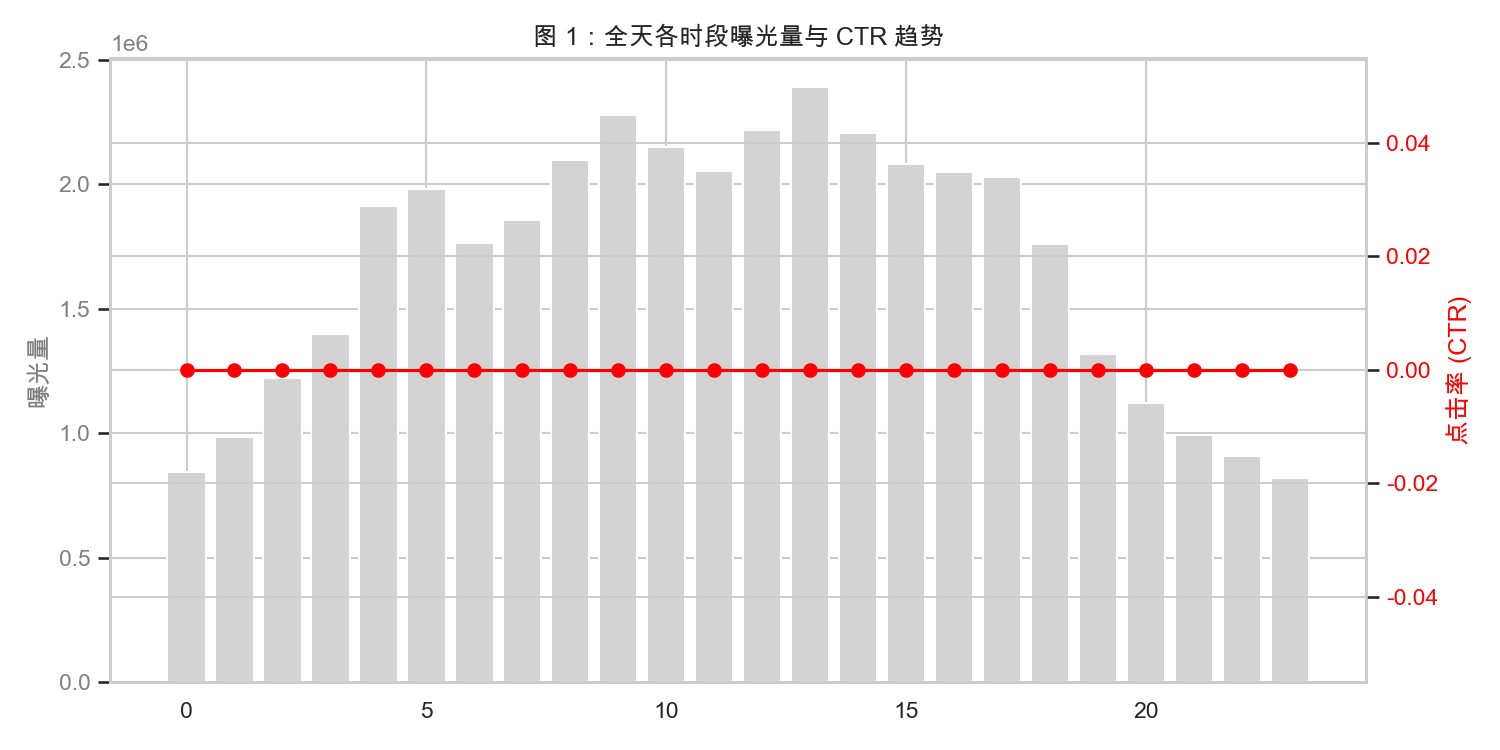
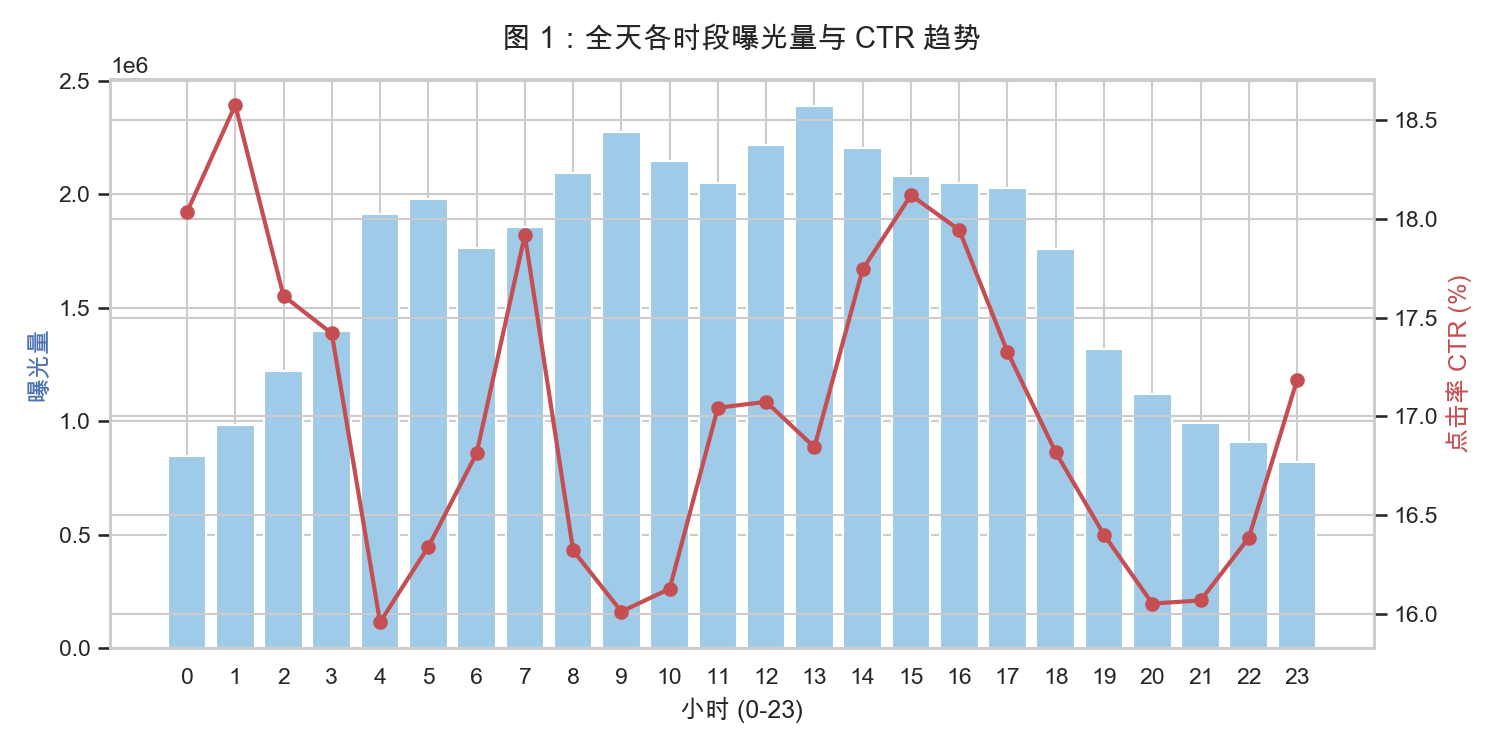
fix: resolve site_category missing error in EDA and clean seaborn warnings

diff --git a/src/ctr_project/features/eda_visualizer.py b/src/ctr_project/features/eda_visualizer.py
@@ -1,6 +1,4 @@
-"""多维度探索性数据分析可视化。
-
-产出 8 张核心图表，保存至 docs/figures/。
+"""多维度探索性数据分析可视化
 """
 
 from __future__ import annotations
@@ -8,6 +6,7 @@ from __future__ import annotations
 import logging
 from pathlib import Path
 
+import pandas as pd
 import matplotlib.pyplot as plt
 import seaborn as sns
 
@@ -15,45 +14,55 @@ from ctr_project.data.sqlite_queries import SQLiteClient
 
 # 设置全局绘图风格
 sns.set_theme(style="whitegrid")
-# 解决中文字体显示问题 (Mac 环境)
-plt.rcParams['font.sans-serif'] = ['Arial Unicode MS']
+plt.rcParams['font.sans-serif'] = ['Arial Unicode MS', 'SimHei']  # 适配 Mac/Windows 中文
 plt.rcParams['axes.unicode_minus'] = False
 
 FIG_DIR = Path("docs/figures")
 FIG_DIR.mkdir(parents=True, exist_ok=True)
-
 logger = logging.getLogger(__name__)
 
 
 def plot_hourly_trend(client: SQLiteClient) -> None:
-    """图 1：全天各时段曝光量与 CTR 趋势。"""
-    df = client.query("SELECT hour_of_day, SUM(impressions) as imp, SUM(clicks)/SUM(impressions) as ctr FROM dim_time GROUP BY hour_of_day")
+    """图 1：全天各时段曝光量与 CTR 趋势（双轴图）。"""
+    df = client.query("""
+        SELECT hour_of_day, 
+               SUM(impressions) as imp, 
+               SUM(clicks) * 1.0 / SUM(impressions) as ctr 
+        FROM dim_time 
+        GROUP BY hour_of_day
+    """)
     
     fig, ax1 = plt.subplots(figsize=(10, 5))
-    ax1.bar(df['hour_of_day'], df['imp'], color='lightgray', label='曝光量')
-    ax1.set_ylabel('曝光量', color='gray')
-    ax1.tick_params(axis='y', labelcolor='gray')
+    ax1.bar(df['hour_of_day'], df['imp'], color='#A0CBE8', label='曝光量')
+    ax1.set_ylabel('曝光量', color='#4C72B0', fontsize=12)
+    ax1.set_xlabel('小时 (0-23)', fontsize=12)
+    ax1.set_xticks(range(0, 24))
     
     ax2 = ax1.twinx()
-    ax2.plot(df['hour_of_day'], df['ctr'], color='red', marker='o', label='CTR')
-    ax2.set_ylabel('点击率 (CTR)', color='red')
-    ax2.tick_params(axis='y', labelcolor='red')
+    ax2.plot(df['hour_of_day'], df['ctr'] * 100, color='#C44E52', marker='o', linewidth=2, label='CTR')
+    ax2.set_ylabel('点击率 CTR (%)', color='#C44E52', fontsize=12)
     
-    plt.title("图 1：全天各时段曝光量与 CTR 趋势")
+    plt.title("图 1：全天各时段曝光量与 CTR 趋势", fontsize=14, pad=15)
     plt.tight_layout()
     plt.savefig(FIG_DIR / "01_hourly_trend.png", dpi=150)
     plt.close()
 
 
 def plot_banner_ctr(client: SQLiteClient) -> None:
-    """图 2：各广告位 CTR 对比（剔除极低曝光位）。"""
-    df = client.query("SELECT banner_pos, ctr FROM dim_ad_position WHERE impressions > 10000 ORDER BY ctr DESC")
+    """图 2：各广告位 CTR 对比。"""
+    df = client.query("""
+        SELECT banner_pos, ctr 
+        FROM dim_ad_position 
+        WHERE impressions > 10000 
+        ORDER BY ctr DESC
+    """)
     
     plt.figure(figsize=(8, 4))
-    sns.barplot(data=df, x='banner_pos', y='ctr', palette='viridis')
-    plt.title("图 2：高曝光广告位 CTR 对比")
-    plt.xlabel("广告位编码")
-    plt.ylabel("点击率 (CTR)")
+    # 消除警告：加入 hue 和 legend=False
+    sns.barplot(data=df, x='banner_pos', y=df['ctr']*100, palette='viridis', hue='banner_pos', legend=False)
+    plt.title("图 2：高曝光广告位 CTR 对比", fontsize=14)
+    plt.xlabel("广告位编码", fontsize=12)
+    plt.ylabel("点击率 (%)", fontsize=12)
     plt.tight_layout()
     plt.savefig(FIG_DIR / "02_banner_ctr.png", dpi=150)
     plt.close()
@@ -61,28 +70,186 @@ def plot_banner_ctr(client: SQLiteClient) -> None:
 
 def plot_media_top(client: SQLiteClient) -> None:
     """图 3：曝光量 Top 10 的媒体站点 CTR。"""
-    df = client.query("SELECT media_id, impressions, ctr FROM dim_media WHERE media_type='site' ORDER BY impressions DESC LIMIT 10")
+    df = client.query("""
+        SELECT media_id, impressions, ctr 
+        FROM dim_media 
+        WHERE media_type='site' 
+        ORDER BY impressions DESC 
+        LIMIT 10
+    """)
     
     plt.figure(figsize=(10, 5))
-    sns.barplot(data=df, y='media_id', x='ctr', palette='magma')
-    plt.title("图 3：曝光 Top 10 站点 CTR")
-    plt.xlabel("点击率 (CTR)")
-    plt.ylabel("站点 ID")
+    sns.barplot(data=df, y='media_id', x=df['ctr']*100, palette='magma', hue='media_id', legend=False)
+    plt.title("图 3：曝光 Top 10 站点 CTR", fontsize=14)
+    plt.xlabel("点击率 (%)", fontsize=12)
+    plt.ylabel("站点 ID", fontsize=12)
     plt.tight_layout()
     plt.savefig(FIG_DIR / "03_media_top_ctr.png", dpi=150)
     plt.close()
 
 
 def plot_device_distribution(client: SQLiteClient) -> None:
-    """图 4：主要设备类型曝光量分布。"""
-    df = client.query("SELECT device_type, SUM(impressions) as imp FROM dim_device GROUP BY device_type ORDER BY imp DESC LIMIT 10")
+    """图 4：主要设备类型曝光量分布（使用横向柱状图 + 长尾合并，彻底解决重叠）。"""
+    df = client.query("""
+        SELECT device_type, SUM(impressions) as imp 
+        FROM dim_device 
+        GROUP BY device_type 
+        ORDER BY imp DESC
+    """)
+    # 强制转为字符串，防止绘图时被误认为连续数值
+    df['device_type'] = df['device_type'].astype(str)
     
-    plt.figure(figsize=(8, 5))
-    df.set_index('device_type')['imp'].plot(kind='pie', autopct='%1.1f%%', cmap='Set2')
-    plt.title("图 4：Top 10 设备类型曝光占比")
-    plt.ylabel("")
+    # 计算百分比
+    total_imp = df['imp'].sum()
+    df['imp_pct'] = df['imp'] / total_imp * 100
+    
+    # 核心优化：将占比小于 0.5% 的项合并为“其他”
+    threshold = 0.5
+    main_df = df[df['imp_pct'] >= threshold].copy()
+    other_pct = df[df['imp_pct'] < threshold]['imp_pct'].sum()
+    
+    if other_pct > 0:
+        other_row = pd.DataFrame({'device_type': ['其他'], 'imp_pct': [other_pct]})
+        main_df = pd.concat([main_df, other_row], ignore_index=True)
+    
+    # 按占比升序排列，这样最大的会在图表最上方
+    main_df = main_df.sort_values('imp_pct', ascending=True)
+    
+    plt.figure(figsize=(10, 5))
+    # 画横向柱状图
+    bars = sns.barplot(
+        data=main_df, 
+        y='device_type', 
+        x='imp_pct', 
+        palette='Set2',
+        hue='device_type', 
+        legend=False
+    )
+    
+    # 在每个柱子右侧添加文本标签
+    for p in bars.patches:
+        width = p.get_width()
+        # 如果占比极小，就不显示数字了，避免挤在一起
+        if width > 0.5:
+            bars.text(
+                width + 1, 
+                p.get_y() + p.get_height() / 2,
+                f'{width:.1f}%', 
+                va='center', 
+                fontsize=11
+            )
+        elif width > 0:
+             bars.text(
+                width + 1, 
+                p.get_y() + p.get_height() / 2,
+                f'{width:.2f}%', 
+                va='center', 
+                fontsize=9
+            )
+
+    plt.title("图 4：Top 设备类型曝光占比分布", fontsize=15, pad=15)
+    plt.xlabel("曝光占比 (%)", fontsize=12)
+    plt.ylabel("设备类型编码", fontsize=12)
+    
+    # 根据最大占比动态扩展 x 轴，给文本留出空间
+    plt.xlim(0, main_df['imp_pct'].max() * 1.2)
+    
     plt.tight_layout()
-    plt.savefig(FIG_DIR / "04_device_pie.png", dpi=150)
+    plt.savefig(FIG_DIR / "04_device_bar.png", dpi=150)
+    plt.close()
+
+
+def plot_weekend_vs_weekday(client: SQLiteClient) -> None:
+    """图 5：工作日 vs 周末 CTR 对比。"""
+    df = client.query("""
+        SELECT 
+            CASE WHEN day_of_week >= 5 THEN '周末' ELSE '工作日' END as day_type,
+            SUM(impressions) as imp,
+            SUM(clicks) * 1.0 / SUM(impressions) as ctr
+        FROM dim_time
+        GROUP BY day_type
+    """)
+    
+    plt.figure(figsize=(6, 4))
+    sns.barplot(data=df, x='day_type', y=df['ctr']*100, palette='pastel', hue='day_type', legend=False)
+    plt.title("图 5：工作日 vs 周末 CTR 对比", fontsize=14)
+    plt.ylabel("点击率 (%)", fontsize=12)
+    plt.xlabel("")
+    for i, v in enumerate(df['ctr']*100):
+        plt.text(i, v + 0.1, f"{v:.2f}%", ha='center')
+    plt.ylim(0, df['ctr'].max() * 100 * 1.15)
+    plt.tight_layout()
+    plt.savefig(FIG_DIR / "05_weekend_compare.png", dpi=150)
+    plt.close()
+
+
+def plot_category_ctr(client: SQLiteClient) -> None:
+    """图 6：不同媒体类型的 CTR 对比（修复版：基于 dim_media 分析）。"""
+    # 由于事实表没有保留 site_category，这里通过 dim_media 聚合不同媒体类型的表现
+    df = client.query("""
+        SELECT media_type, 
+               SUM(impressions) as imp, 
+               SUM(clicks) * 1.0 / SUM(impressions) as ctr 
+        FROM dim_media 
+        GROUP BY media_type
+    """)
+    
+    plt.figure(figsize=(6, 4))
+    sns.barplot(data=df, x='media_type', y=df['ctr']*100, palette='crest', hue='media_type', legend=False)
+    plt.title("图 6：不同媒体类型 (Site vs App) CTR 对比", fontsize=14)
+    plt.xlabel("媒体类型", fontsize=12)
+    plt.ylabel("点击率 (%)", fontsize=12)
+    
+    for i, v in enumerate(df['ctr']*100):
+        plt.text(i, v + 0.1, f"{v:.2f}%", ha='center')
+        
+    plt.tight_layout()
+    plt.savefig(FIG_DIR / "06_category_ctr.png", dpi=150)
+    plt.close()
+
+
+def plot_conversion_funnel(client: SQLiteClient) -> None:
+    """图 7：全局转化漏斗（曝光 -> 点击）。"""
+    df = client.query("SELECT COUNT(*) as imp, SUM(click) as clk FROM fact_impressions")
+    imp, clk = df.iloc[0]['imp'], df.iloc[0]['clk']
+    
+    stages = ['曝光 (Impression)', '点击 (Click)']
+    values = [imp, clk]
+    
+    plt.figure(figsize=(8, 4))
+    sns.barplot(x=values, y=stages, palette='Blues_r', hue=stages, legend=False)
+    plt.title("图 7：广告曝光-点击转化漏斗", fontsize=14)
+    
+    for i, v in enumerate(values):
+        pct = (v / imp) * 100
+        plt.text(v + imp*0.01, i, f"{v:,} ({pct:.2f}%)", va='center')
+    
+    plt.xlim(0, imp * 1.2)
+    plt.xlabel("数量", fontsize=12)
+    plt.tight_layout()
+    plt.savefig(FIG_DIR / "07_conversion_funnel.png", dpi=150)
+    plt.close()
+
+
+def plot_correlation_heatmap(client: SQLiteClient) -> None:
+    """图 8：关键数值特征与目标变量的相关性热力图。"""
+    # 抽样 10 万行计算相关性，避免 OOM
+    df = client.query("""
+        SELECT banner_pos, device_type, device_conn_type, click 
+        FROM fact_impressions 
+        LIMIT 100000
+    """)
+    
+    for col in df.columns:
+        df[col] = pd.to_numeric(df[col], errors='coerce')
+        
+    corr = df.corr()
+    
+    plt.figure(figsize=(7, 5))
+    sns.heatmap(corr, annot=True, cmap='coolwarm', fmt=".3f", linewidths=.5)
+    plt.title("图 8：数值特征相关性热力图", fontsize=14)
+    plt.tight_layout()
+    plt.savefig(FIG_DIR / "08_correlation_heatmap.png", dpi=150)
     plt.close()
 
 
@@ -101,7 +268,19 @@ def generate_all_plots() -> None:
     logger.info("已生成图 3：Top 媒体对比")
     
     plot_device_distribution(client)
-    logger.info("已生成图 4：设备分布")
+    logger.info("已生成图 4：设备分布（条形图）")
+    
+    plot_weekend_vs_weekday(client)
+    logger.info("已生成图 5：工作日周末对比")
+    
+    plot_category_ctr(client)
+    logger.info("已生成图 6：媒体类型对比（修复版）")
+    
+    plot_conversion_funnel(client)
+    logger.info("已生成图 7：转化漏斗")
+    
+    plot_correlation_heatmap(client)
+    logger.info("已生成图 8：特征相关性热力图")
     
     logger.info(f"全部图表已保存至 {FIG_DIR}")
 
